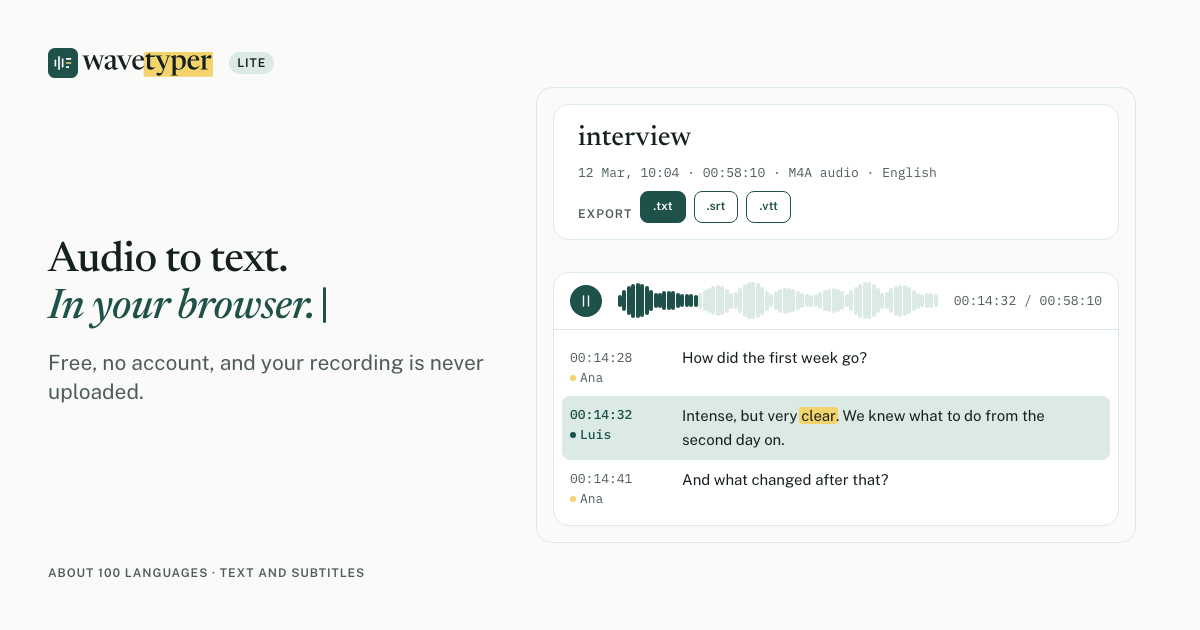
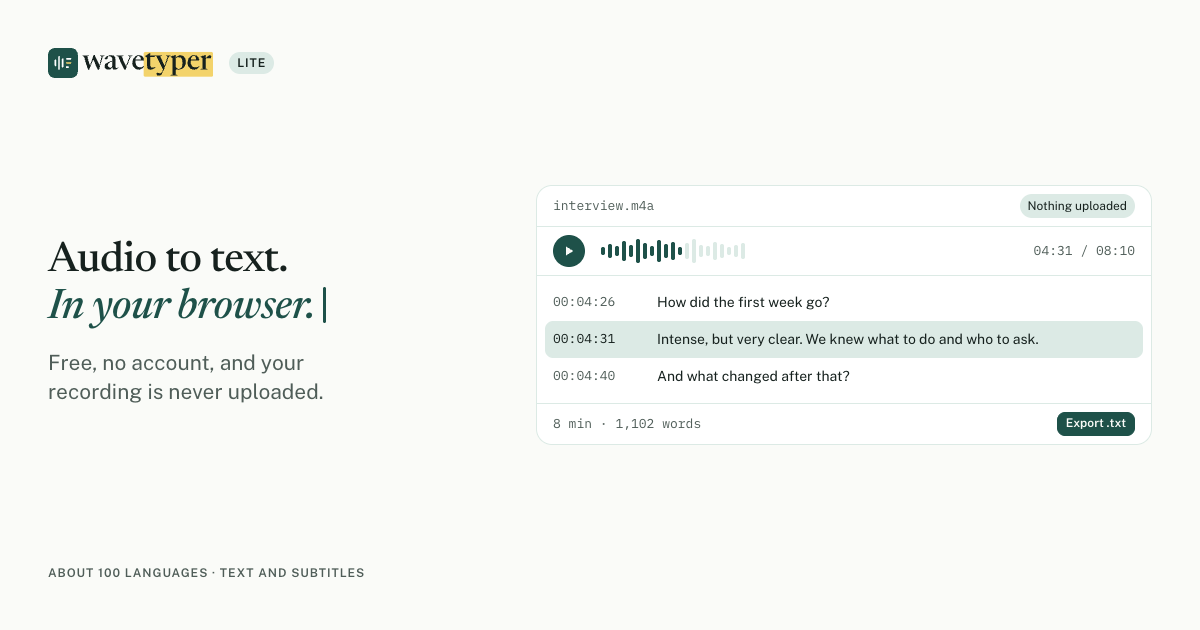
fix(browser): show the landing page preview in Lite's share image
The preview shows only what Lite does: timecodes and a recording under 10 minutes, without speakers.

diff --git a/scripts/og-image.html b/scripts/og-image.html
@@ -2,9 +2,11 @@
 <html lang="en" data-theme="light">
 <head>
 <meta charset="utf-8">
-<link rel="stylesheet" href="/src/styles/index.css">
+<link rel="stylesheet" href="/src/styles/tokens.css">
+<link rel="stylesheet" href="/src/styles/fonts.css">
+<link rel="stylesheet" href="/src/styles/base.css">
 <style>
-  html, body { width: 1200px; height: 630px; overflow: hidden; background: var(--palette-neutral-50); }
+  html, body { width: 1200px; height: 630px; overflow: hidden; background: var(--palette-neutral-100); }
   .og { display: grid; grid-template-columns: 440px 1fr; gap: var(--space-5); height: 100%; padding: var(--space-5); }
   .og-copy { display: flex; flex-direction: column; }
   .og-brand { display: flex; align-items: center; gap: var(--space-3); }
@@ -13,11 +15,26 @@
   .og h1 { margin: auto 0 var(--space-3); font: var(--font-weight-medium) var(--font-size-heading-1) / var(--font-line-height-heading-1) var(--font-family-display); letter-spacing: calc(var(--font-tracking-heading-1) * 1em); color: var(--ink); }
   .og h1 em { color: var(--pine); }
   .og .cursor { display: inline-block; width: 0.08em; height: 0.85em; margin-left: 0.18em; border-radius: var(--radius-cursor); background: var(--pine); vertical-align: -0.11em; }
-  .og .lead { font-size: var(--font-size-lead); line-height: var(--font-line-height-lead); color: var(--ink-muted); }
+  .og .lead { font-size: var(--font-size-lead); line-height: var(--font-line-height-lead); color: var(--ink-muted); text-wrap: balance; }
   .og .label { margin-top: auto; }
-  .og-shot { align-self: center; width: 600px; border: 1px solid var(--line); border-radius: var(--radius-lg); background: var(--surface); padding: var(--space-3); }
-  .og-shot .card { margin: 0; }
-  .og-shot .card + .card { margin-top: var(--space-3); }
+
+  /* The landing page preview, as pro/brand/examples/website.html builds it. */
+  .preview { align-self: center; background: var(--surface-raised); border: 1px solid var(--edge); border-radius: var(--radius-lg); overflow: hidden; }
+  .preview > * + * { border-top: 1px solid var(--edge); }
+  .preview .bar, .preview .player, .preview .foot { display: flex; align-items: center; gap: var(--space-3); padding: var(--space-2) var(--space-3); }
+  .preview .bar .pill, .preview .player .data:last-child, .preview .foot .tag { margin-left: auto; }
+  .preview .data { font-family: var(--font-family-mono); font-size: var(--font-size-timecode); line-height: var(--font-line-height-timecode); color: var(--ink-muted); }
+  .preview .pill { display: inline-flex; align-items: center; padding: 0 var(--space-2); border-radius: var(--radius-full); background: var(--pine-soft); color: var(--ink); font-size: var(--font-size-label); line-height: var(--font-line-height-small); }
+  .preview .play { display: inline-grid; place-items: center; width: 32px; height: 32px; border-radius: var(--radius-full); background: var(--pine); color: var(--on-pine); }
+  .preview .wave { display: inline-flex; align-items: center; gap: var(--size-wave-gap); height: 28px; }
+  .preview .wave i { flex: none; width: var(--size-wave-bar); border-radius: var(--radius-full); background: var(--line); }
+  .preview .wave i.played { background: var(--pine); }
+  .preview .lines { padding: var(--space-2); }
+  .preview .line { display: grid; grid-template-columns: 88px 1fr; gap: var(--space-3); padding: var(--space-2); border-radius: var(--radius-sm); }
+  .preview .line p { margin: 0; font-size: var(--font-size-small); line-height: var(--font-line-height-small); }
+  .preview .line.is-active { background: var(--pine-soft); }
+  .preview .line.is-active .data { color: var(--ink); }
+  .preview .tag { padding: var(--space-2); border: var(--size-button-outline) solid var(--pine); border-radius: var(--radius-sm); font: var(--font-weight-semibold) var(--font-size-label) / var(--font-line-height-label) var(--font-family-sans); text-box: trim-both cap alphabetic; background: var(--pine); color: var(--on-pine); }
 </style>
 </head>
 <body>
@@ -28,36 +45,30 @@
     <p class="lead">Free, no account, and your recording is never uploaded.</p>
     <p class="label">About 100 languages · Text and subtitles</p>
   </div>
-  <div class="og-shot">
-    <section class="result">
-      <div class="card result-card">
-        <div class="result-top"><div class="titles"><h2 class="title-line">interview</h2></div></div>
-        <p class="meta-line data"><span class="meta-text">12 Mar, 10:04 · 00:58:10 · M4A audio · English</span></p>
-        <div class="result-foot"><div class="export-row"><span class="label">Export</span><span class="format-tags"><button type="button" class="format-tag selected">.txt</button><button type="button" class="format-tag">.srt</button><button type="button" class="format-tag">.vtt</button></span></div></div>
-      </div>
-      <div class="card transcript-card">
-        <div class="transcript-tools"><div class="player">
-          <button type="button" class="play" aria-label="Pause"><svg width="20" height="20" viewBox="0 0 24 24" fill="none" stroke="currentColor" stroke-linecap="round" style="stroke-width: var(--size-icon-stroke)"><path d="M9 6v12M15 6v12"/></svg></button>
-          <div class="wave-slider has-wave"><span class="wave-bars" id="bars"></span></div>
-          <span class="player-time data tabular">00:14:32 / 00:58:10</span>
-        </div></div>
-        <div class="transcript lines">
-          <p class="line has-meta"><span class="line-meta"><span class="time">00:14:28</span><span class="who s0"><span class="line-dot"></span><span class="who-name">Ana</span></span></span><span class="line-text" dir="auto">How did the first week go?</span></p>
-          <p class="line has-meta current"><span class="line-meta"><span class="time">00:14:32</span><span class="who s1"><span class="line-dot"></span><span class="who-name">Luis</span></span></span><span class="line-text" dir="auto">Intense, but very <span class="word now">clear</span>. We knew what to do from the second day on.</span></p>
-          <p class="line has-meta"><span class="line-meta"><span class="time">00:14:41</span><span class="who s0"><span class="line-dot"></span><span class="who-name">Ana</span></span></span><span class="line-text" dir="auto">And what changed after that?</span></p>
-        </div>
-      </div>
-    </section>
+  <div class="preview">
+    <div class="bar"><span class="data">interview.m4a</span><span class="pill">Nothing uploaded</span></div>
+    <div class="player">
+      <span class="play"><svg width="12" height="12" viewBox="0 0 12 12"><path d="M3 1.5v9l7.5-4.5z" fill="currentColor"/></svg></span>
+      <span class="wave" data-bars="8 14 10 20 12 24 16 10 22 14 18 8 16 24 12 10 18 14 8 12 16" data-played="12"></span>
+      <span class="data">04:31 / 08:10</span>
+    </div>
+    <div class="lines">
+      <div class="line"><span class="data">00:04:26</span><p>How did the first week go?</p></div>
+      <div class="line is-active"><span class="data">00:04:31</span><p>Intense, but very clear. We knew what to do and who to ask.</p></div>
+      <div class="line"><span class="data">00:04:40</span><p>And what changed after that?</p></div>
+    </div>
+    <div class="foot"><span class="data">8 min · 1,102 words</span><span class="tag">Export .txt</span></div>
   </div>
 </div>
 <script>
-  const bars = document.getElementById("bars");
-  for (let i = 0; i < 72; i++) {
-    const h = 30 + 65 * Math.abs(Math.sin(i * 0.37) * Math.cos(i * 0.11));
-    const bar = document.createElement("i");
-    bar.style.height = `${Math.round(h)}%`;
-    if (i < 18) bar.className = "played";
-    bars.append(bar);
+  for (const wave of document.querySelectorAll(".wave[data-bars]")) {
+    const played = Number(wave.dataset.played);
+    wave.dataset.bars.split(" ").forEach((height, i) => {
+      const bar = document.createElement("i");
+      bar.style.height = `${height}px`;
+      if (i < played) bar.className = "played";
+      wave.append(bar);
+    });
   }
 </script>
 </body>

diff --git a/vite.config.ts b/vite.config.ts
@@ -64,7 +64,7 @@ const webHead = {
         meta({ property: "og:image", content: `${SITE}og-image.png` }),
         meta({ property: "og:image:width", content: "1200" }),
         meta({ property: "og:image:height", content: "630" }),
-        meta({ property: "og:image:alt", content: "Audio to text. In your browser. A transcript with speakers, timecodes and a waveform in wavetyper Lite." }),
+        meta({ property: "og:image:alt", content: "Audio to text. In your browser. A transcript with timecodes and a waveform in wavetyper Lite." }),
         meta({ name: "twitter:card", content: "summary_large_image" }),
         meta({ name: "twitter:image", content: `${SITE}og-image.png` }),
         { tag: "script", attrs: { type: "application/ld+json" }, children: JSON.stringify(app), injectTo: "head" as const },
